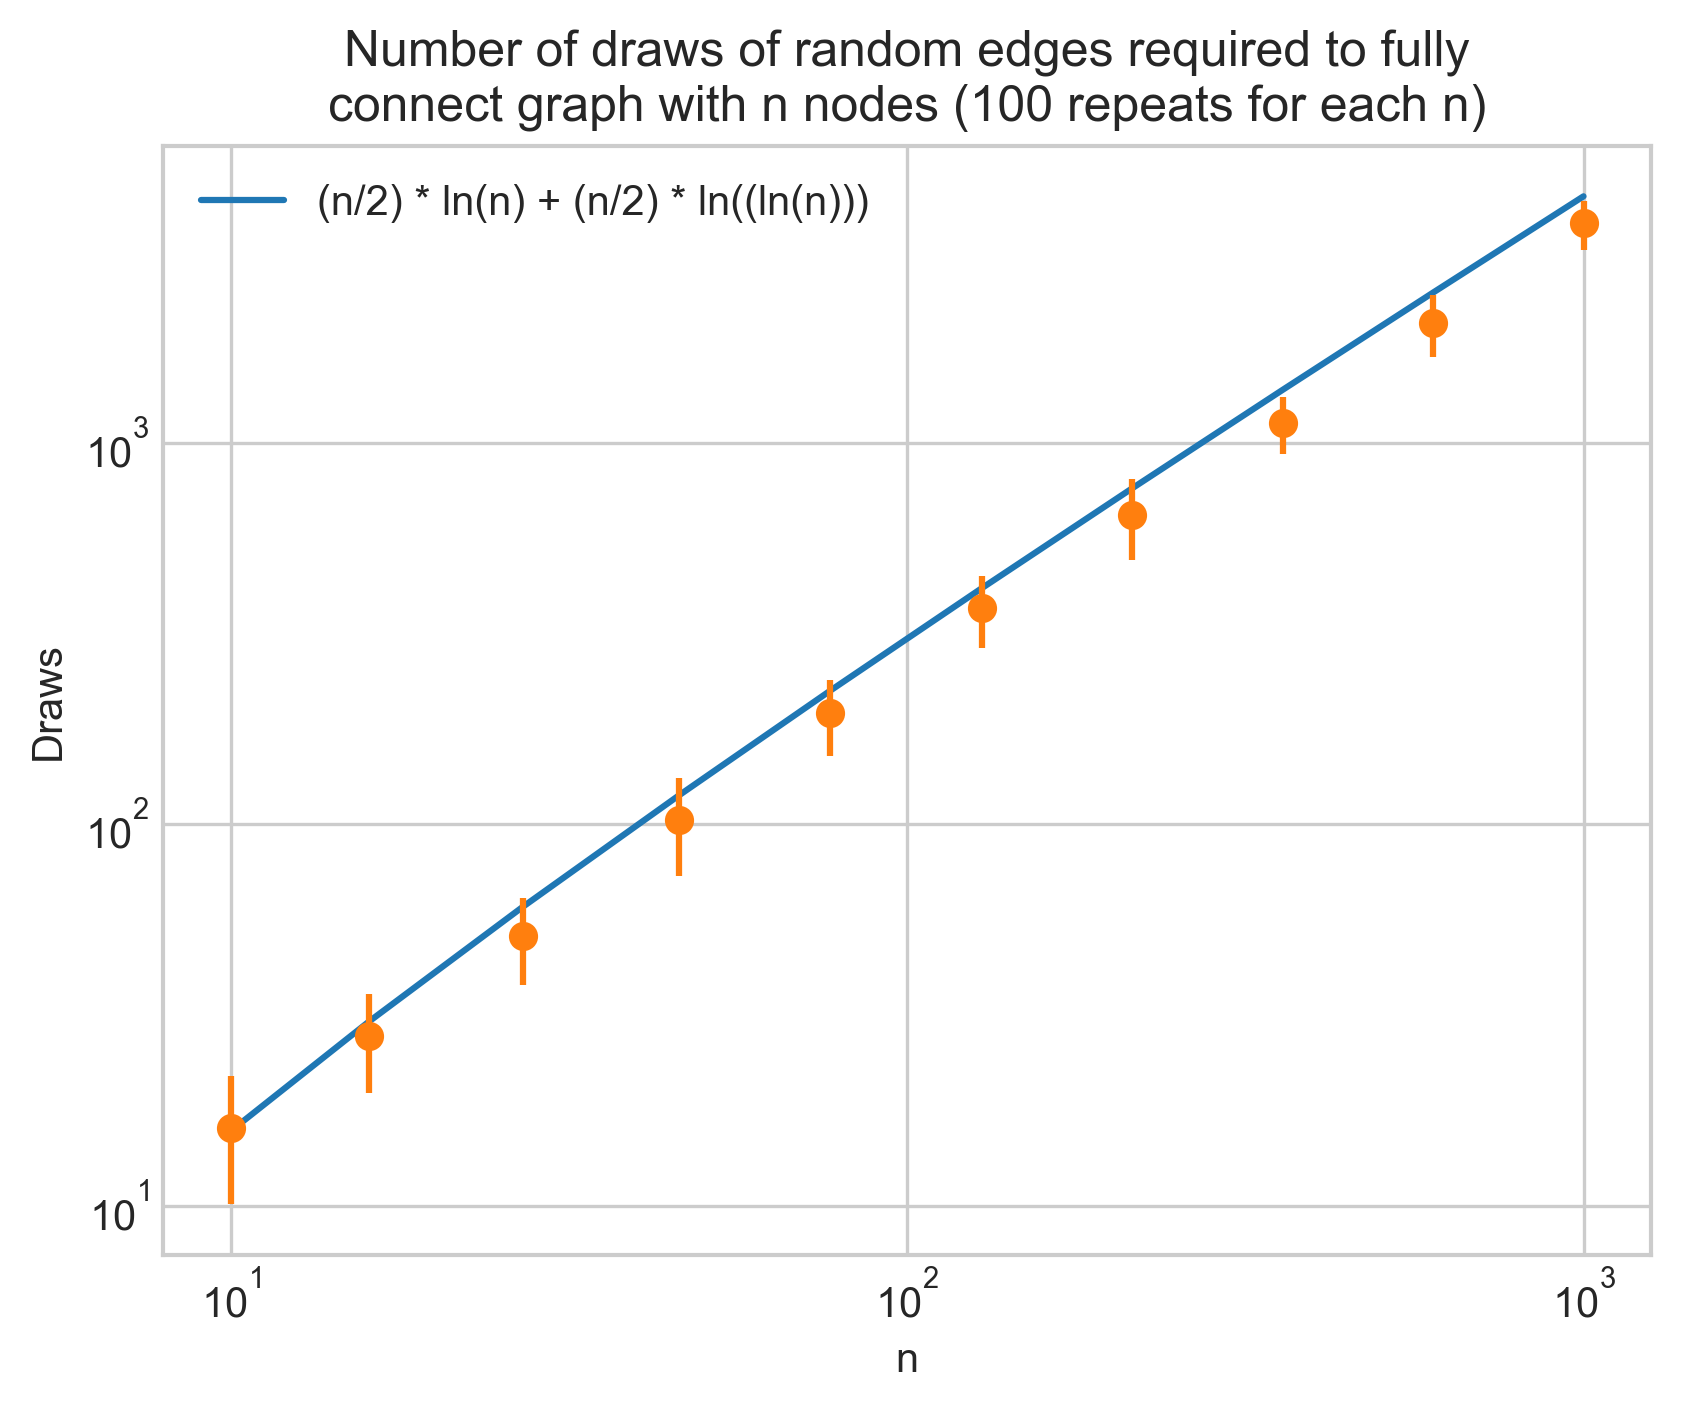
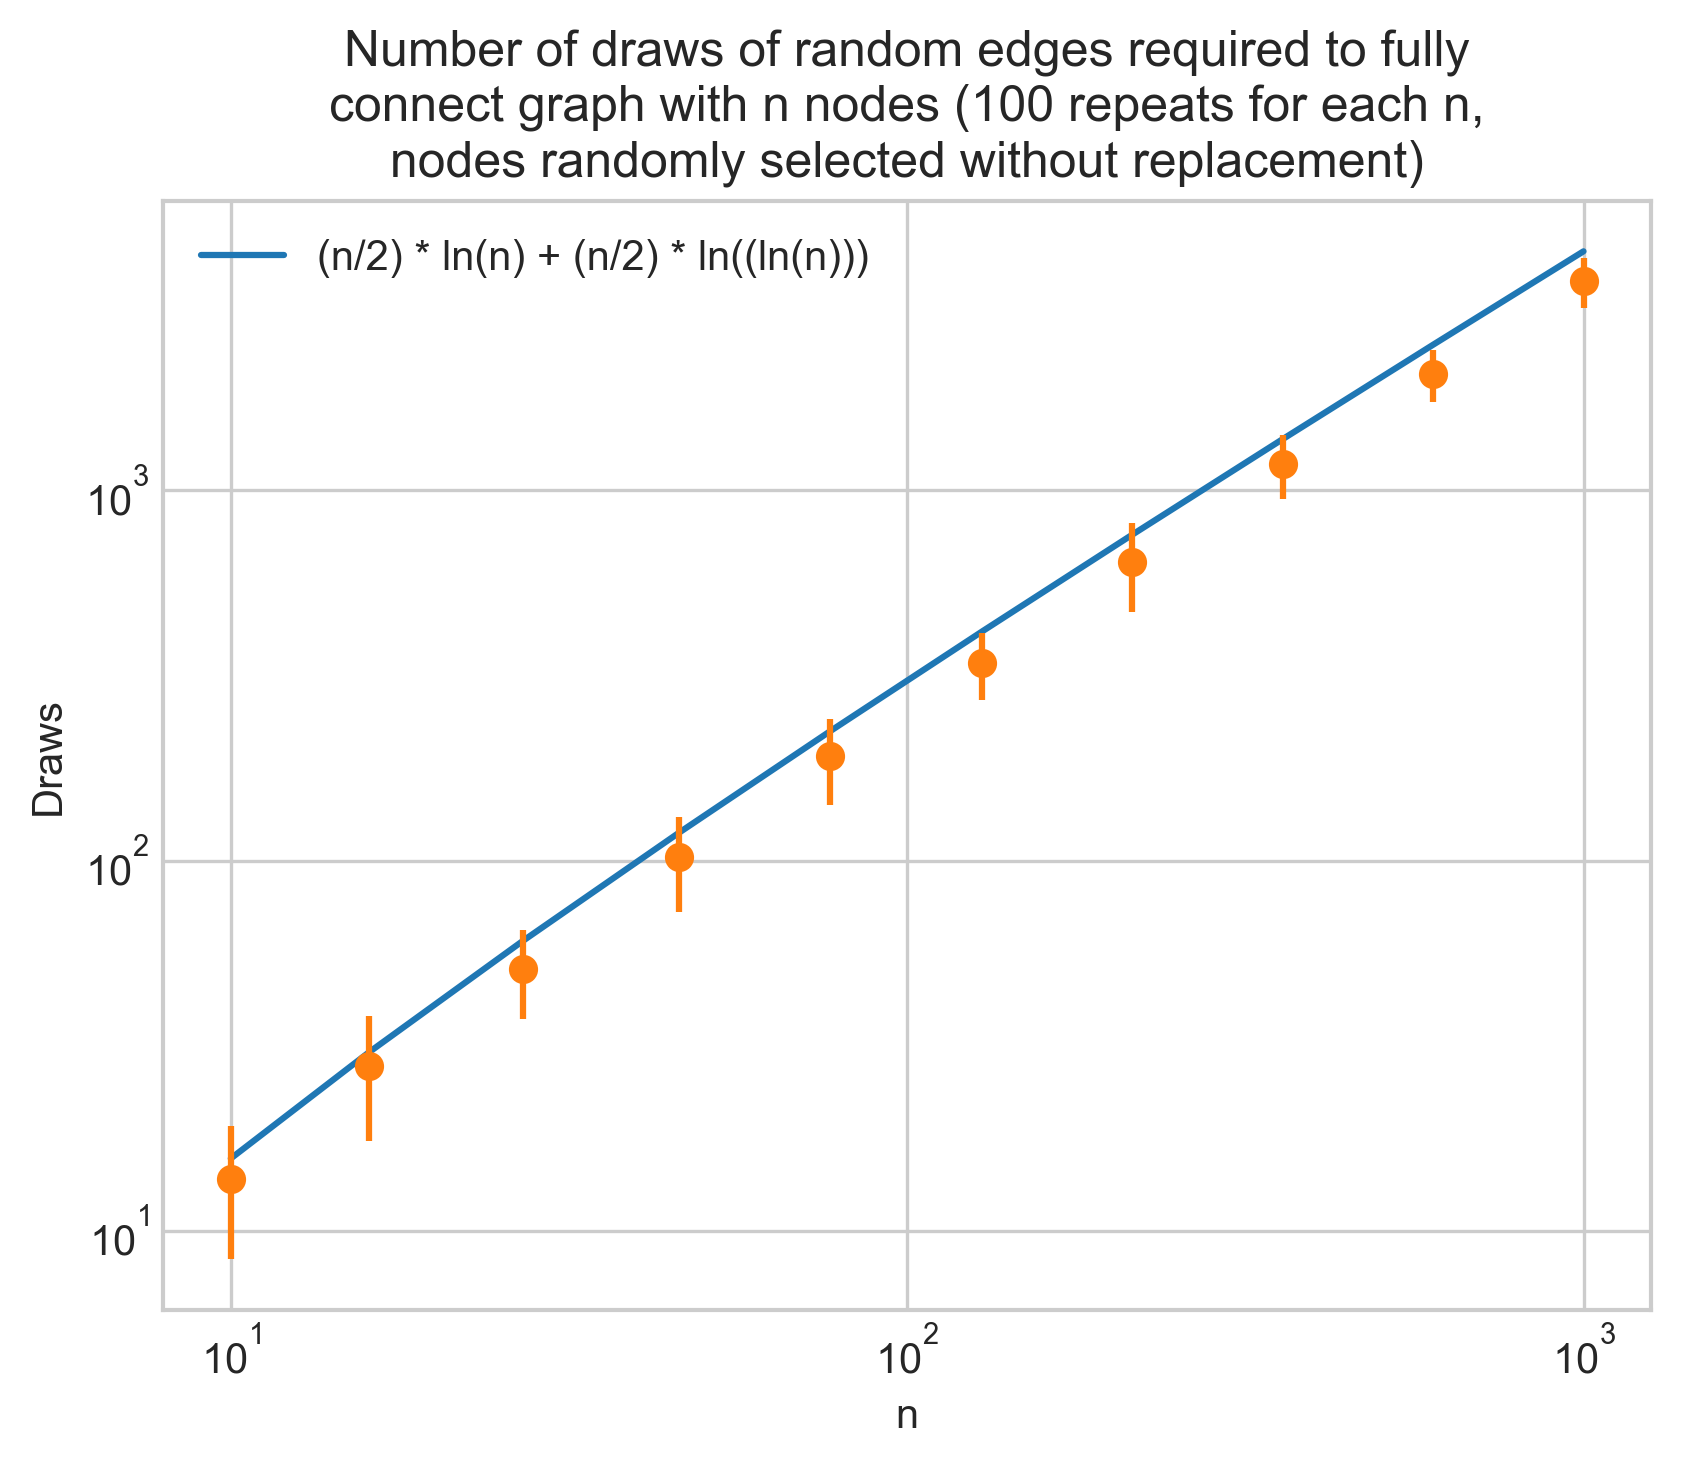
random draws with replacement

diff --git a/day-08/random_graphs.py b/day-08/random_graphs.py
@@ -1,5 +1,3 @@
-# %%
-
 from itertools import count
 import numpy as np
 import networkx as nx
@@ -7,45 +5,76 @@ import matplotlib.pyplot as plt
 
 plt.style.use("seaborn-v0_8-whitegrid")
 
+# Graph sizes
+Ns = np.logspace(1, 3, num=10).astype(int)
 
-def count_random_pairs_for_single_cc(n):
+
+def count_random_pairs_for_single_cc(n, with_replacement: bool = False):
     nodes = np.arange(n)
     g = nx.Graph()
     for c in count():
-        u, v = np.random.choice(nodes, 2)
+        u, v = np.random.choice(nodes, 2, replace=with_replacement)
         g.add_edge(u, v)
         if g.number_of_nodes() == n and nx.number_connected_components(g) == 1:
             return c
 
 
-np.random.seed(42)
-
-N_REPS = 100
-Ns = np.logspace(1, 3, num=10).astype(int)
-
-counts = [
-    [count_random_pairs_for_single_cc(n) for _ in range(N_REPS)] for n in Ns
-]
-
-# %%
+def run_experiments(n_reps: int = 100, with_replacement: bool = False):
+    return np.array(
+        [
+            [
+                count_random_pairs_for_single_cc(n, with_replacement)
+                for _ in range(n_reps)
+            ]
+            for n in Ns
+        ]
+    )
 
 
 def f(n):
     return (n / 2) * np.log(n) + (n / 2) * np.log(np.log(n))
 
 
-plt.plot(Ns, f(Ns), label="(n/2) * ln(n) + (n/2) * ln((ln(n)))")
-plt.errorbar(Ns, np.mean(counts, axis=1), yerr=np.std(counts, axis=1), fmt="o")
-plt.xscale("log")
-plt.yscale("log")
-plt.xlabel("n")
-plt.ylabel("Draws")
-plt.title(
-    "Number of draws of random edges required to fully\n"
-    f"connect graph with n nodes ({N_REPS} repeats for each n)"
-)
-plt.legend()
+def plot_experiments(counts):
+    plt.plot(Ns, f(Ns), label="(n/2) * ln(n) + (n/2) * ln((ln(n)))")
+    plt.errorbar(
+        Ns, np.mean(counts, axis=1), yerr=np.std(counts, axis=1), fmt="o"
+    )
+    plt.xscale("log")
+    plt.yscale("log")
+    plt.xlabel("n")
+    plt.ylabel("Draws")
+    plt.legend()
 
-plt.savefig("random-draws.png", dpi=300, bbox_inches="tight")
 
-# %%
+if __name__ == "__main__":
+    np.random.seed(42)
+
+    n_reps = 100
+
+    # Without replacement
+    counts = run_experiments(n_reps=n_reps, with_replacement=False)
+    plot_experiments(counts)
+    plt.title(
+        "Number of draws of random edges required to fully\n"
+        f"connect graph with n nodes ({counts.shape[1]} repeats for each n,\n"
+        "nodes randomly selected without replacement)"
+    )
+    plt.savefig("random-draws.png", dpi=300, bbox_inches="tight")
+    plt.close()
+
+
+    # With replacement
+    counts_with_replacement = run_experiments(
+        n_reps=n_reps, with_replacement=True
+    )
+    plot_experiments(counts_with_replacement)
+    plt.title(
+        "Number of draws of random edges required to fully\n"
+        f"connect graph with n nodes ({counts.shape[1]} repeats for each n,\n"
+        "nodes randomly selected with replacement)"
+    )
+    plt.savefig(
+        "random-draws-with-replacement.png", dpi=300, bbox_inches="tight"
+    )
+    plt.close()
